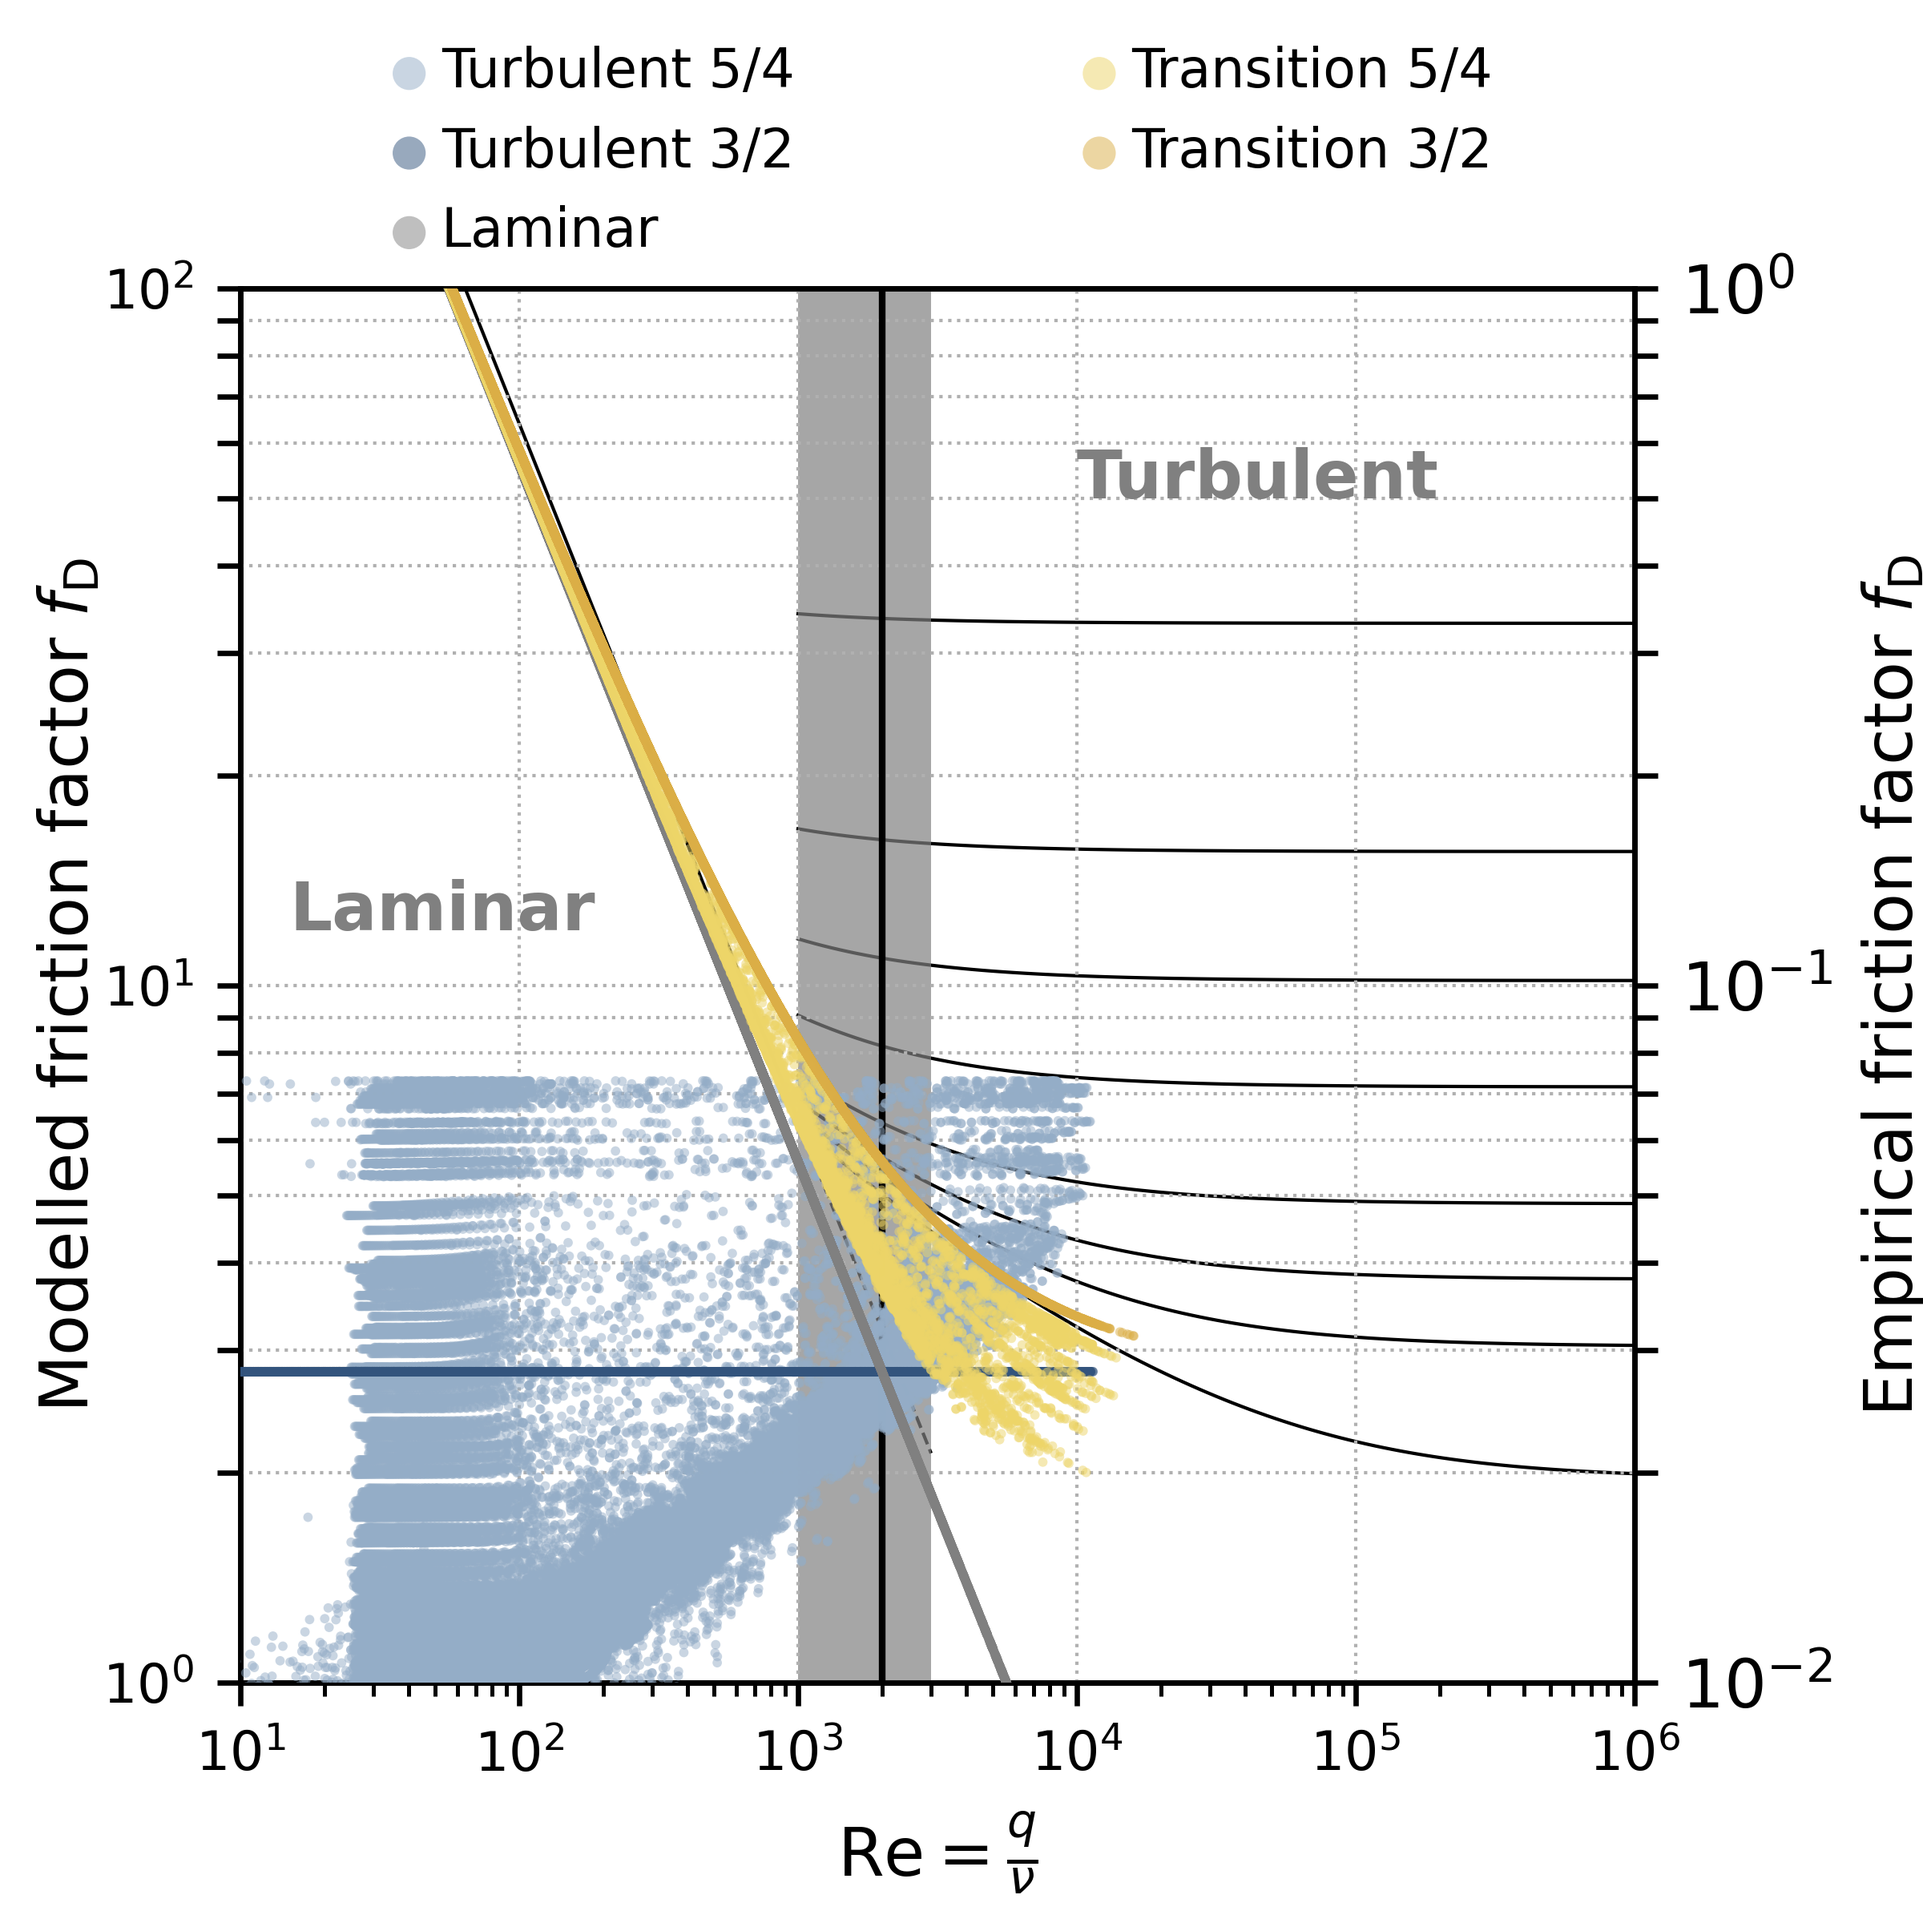
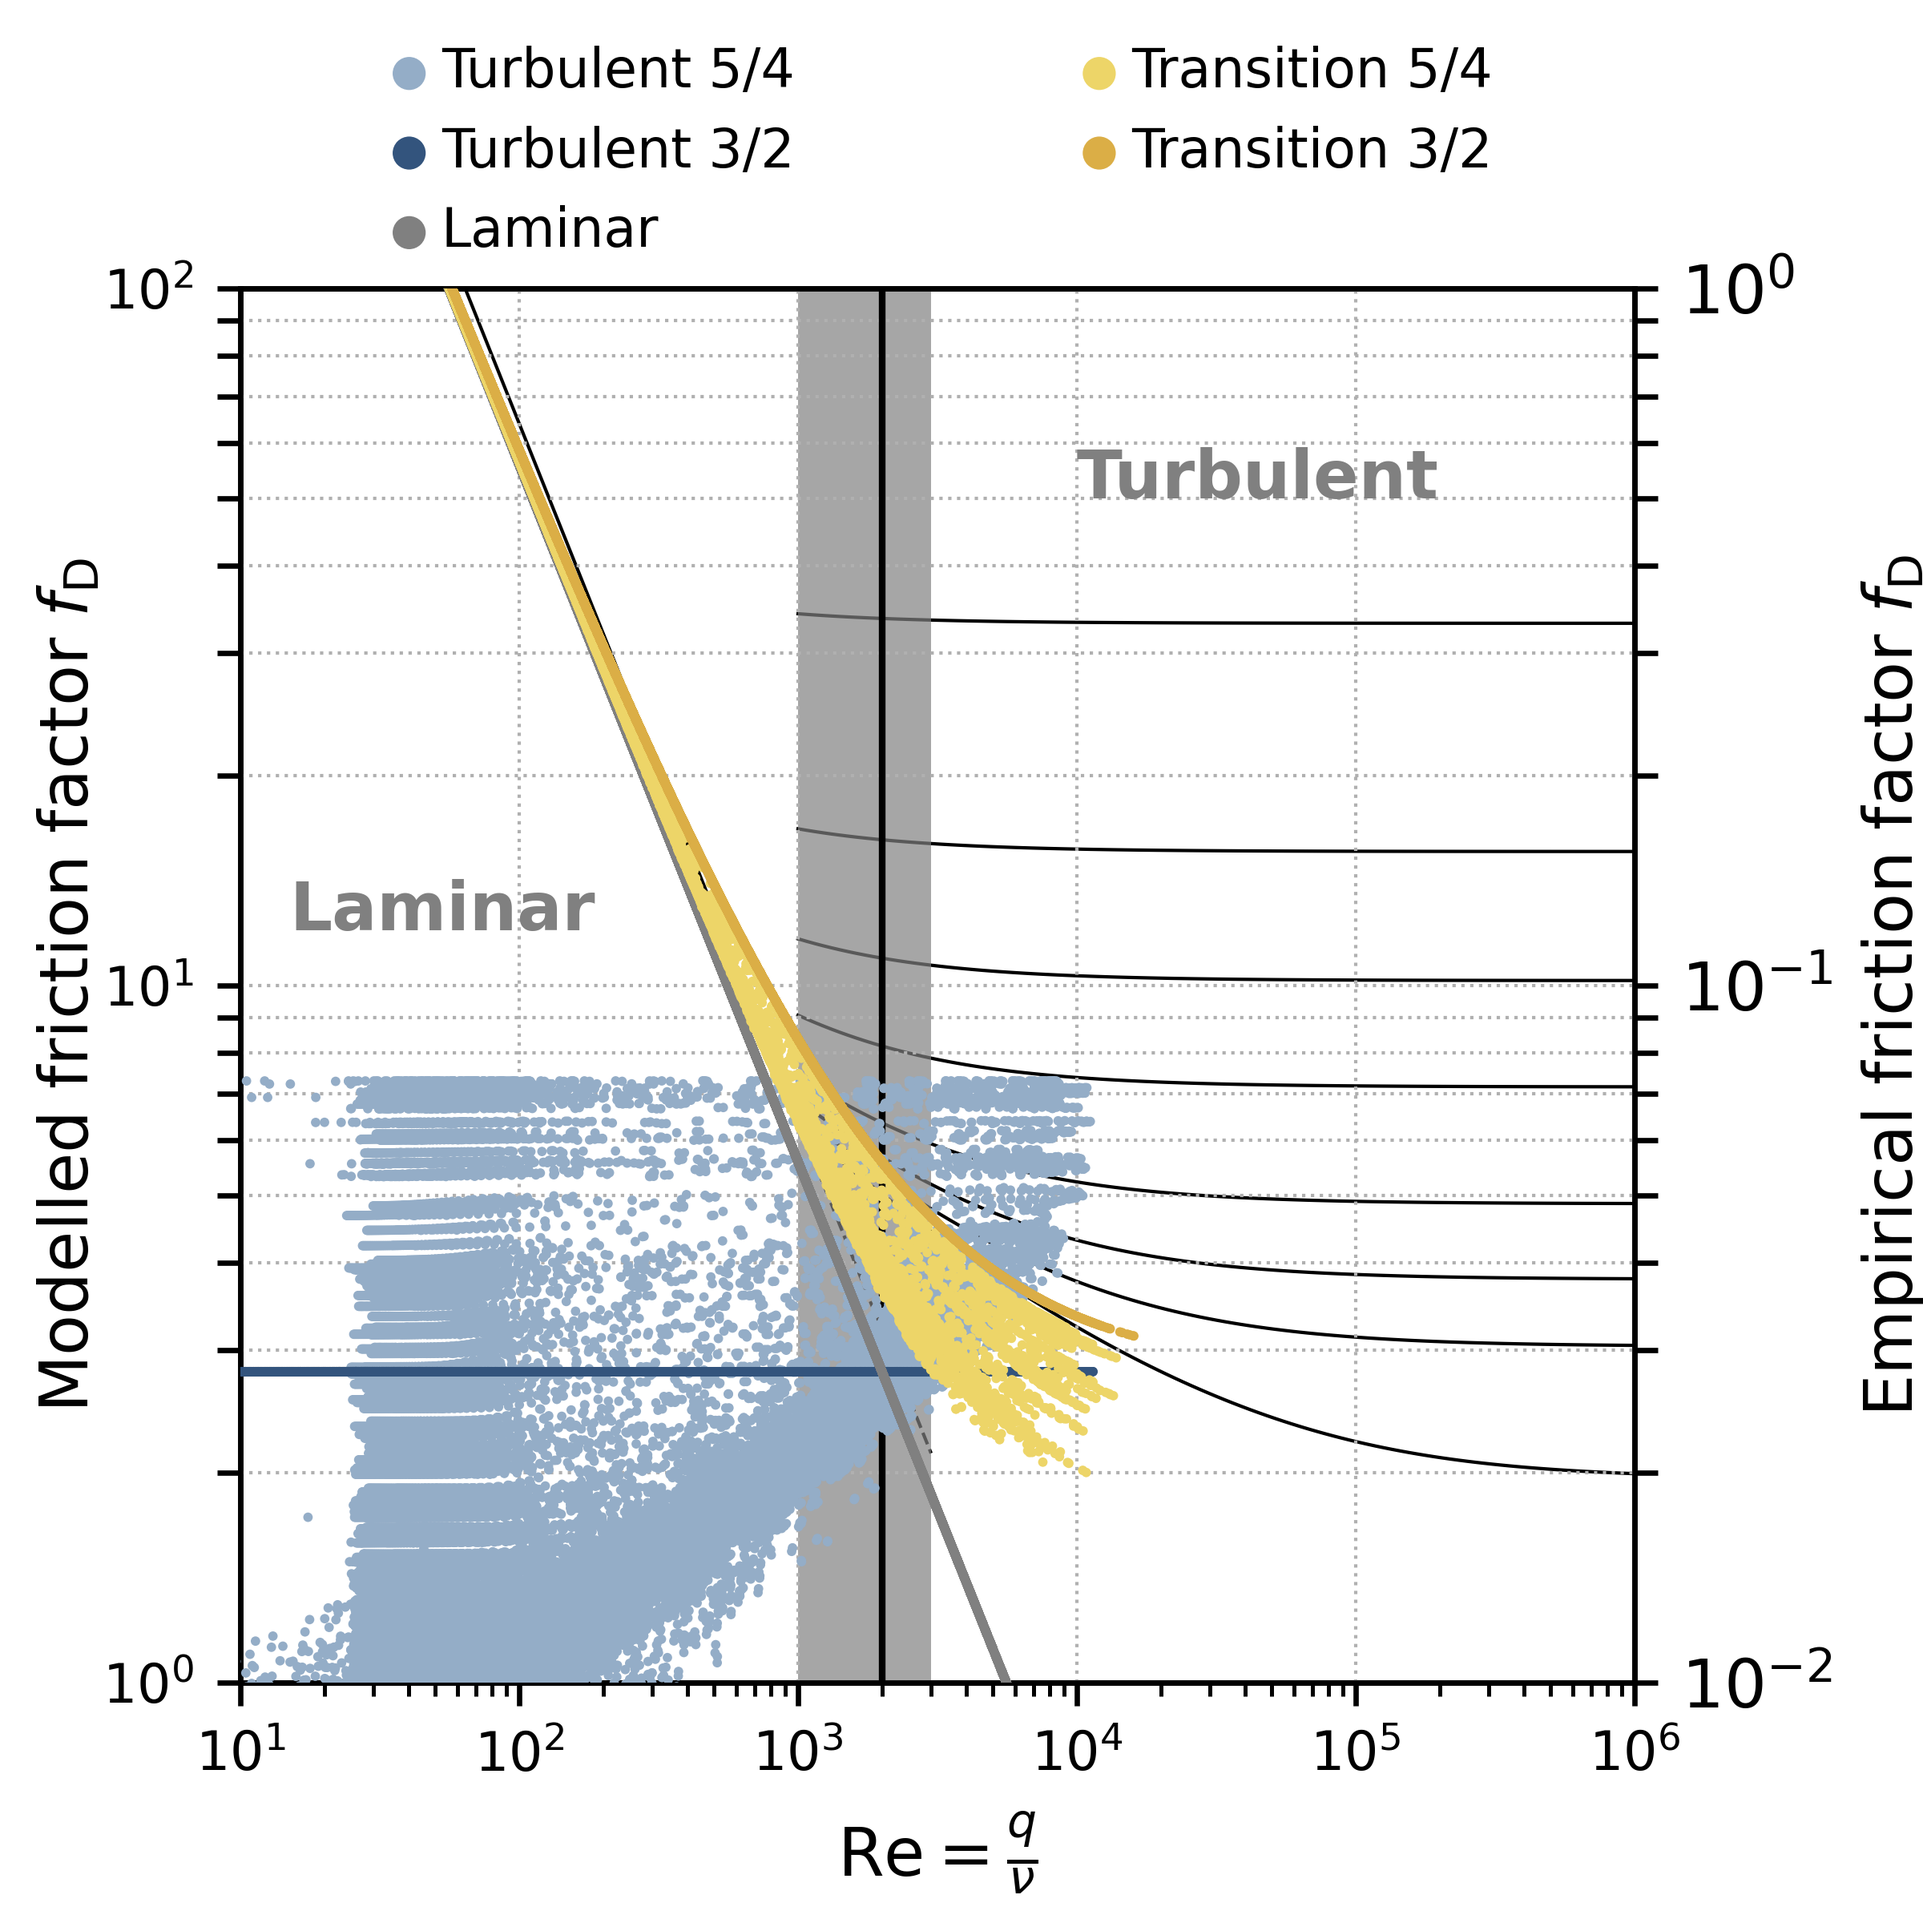
analysis

diff --git a/analysis/compare_winter_pressure.py b/analysis/compare_winter_pressure.py
@@ -131,4 +131,18 @@ print(winter.T)
 print('Summer:')
 print(summer.T)
 
+print('-------------------------------------------------')
+print('    SENSITIVITY')
+print('-------------------------------------------------')
+cases = [1, 2, 3, 4, 5]
+kan_dir = '../glads/S01b_parameter_sensitivity/RUN/output_%03d_seasonal.nc'
+fnames = [kan_dir % caseid for caseid in cases]
+figname = 'stats_KAN_sensitivity.png'
+winter, summer = quantify_floatation(fnames, figname, x_bands=x_bands, band_width=band_widths,
+    tslices=KAN_winter_tindex, labels=labels)
+print('Winter:')
+print(winter.T)
+print('Summer:')
+print(summer.T)
+
 plt.show()

diff --git a/analysis/plot_moody_scatter.py b/analysis/plot_moody_scatter.py
@@ -126,7 +126,7 @@ def plot_moody(fnames, figname, colors=defaults.colors, omega=1/2000,
         elif models[ii]=='Laminar':
             f_lam = f_D[0]
 
-        ax_scatter.scatter(Re.flatten(), f_D.flatten(), color=colors[ii], label=models[ii], s=2, alpha=0.5, zorder=10, edgecolor='none')
+        ax_scatter.scatter(Re.flatten(), f_D.flatten(), color=colors[ii], label=models[ii], s=2, alpha=1, zorder=10, edgecolor='none')
 
     ax_scatter.set_xscale('log')
     ax_scatter.set_yscale('log')
